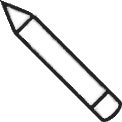
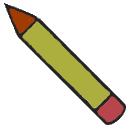
Made images for pointer, placed timer for game length

Changed region(s): [[0.0, 0.0, 1.0, 1.0]]

diff --git a/bord_gen.js b/bord_gen.js
@@ -711,14 +711,22 @@ let useTemp = false;
 tempEl.addEventListener("click", tempFunction);
 
 let brdEl = document.getElementById("sudoku-table");
-brdEl.className = "pen-table"
+
+let pointerImage = {
+    pen: "./pen_img.png",
+    pencil: "./pencil_img.png",
+    temp: "./temp_img.png"
+}
+
+document.getElementById("pointer-image").src = pointerImage.pen;
+
 
 function penFunction() {
     usePen = true;
     usePencil = false;
     useTemp = false;
     highlightToolInUse()
-    brdEl.className = "pen-table"
+    document.getElementById("pointer-image").src = pointerImage.pen;
 }
 
 function pencilFunction() {
@@ -726,9 +734,7 @@ function pencilFunction() {
     usePencil = true;
     useTemp = false;
     highlightToolInUse();
-    brdEl.className = "pencil-table"
-    // const pencilURL = "../images/pencil_img.ico";
-    // brdEl.style.cursor = "url(" + pencilURL + ")";
+    document.getElementById("pointer-image").src = pointerImage.pencil;
 }
 
 function tempFunction() {
@@ -736,7 +742,6 @@ function tempFunction() {
     usePencil = false;
     useTemp = true;
     highlightToolInUse()
-    brdEl.className = "temp-table"
 }
 
 function highlightToolInUse() {
@@ -760,4 +765,10 @@ function clearPuzz() {
     populateBoard(originalBoard)
 }
 
-console.log(MouseEvent)
+let toolInUse = document.getElementById("tool-pointer");
+
+onmousemove = function(e){
+    toolInUse.style.left = e.clientX - 9 + "px"
+    toolInUse.style.top = e.clientY + 18 + "px"
+};
+

diff --git a/src_css/base/base.css b/src_css/base/base.css
@@ -56,6 +56,8 @@ button {
     background: rgba(0, 0, 0, 0.5);
     border-radius: 5px;
     pointer-events: none;
+    cursor: none;
+    z-index: 2;
 }
 .input-selection input{
     margin: 0.2rem;
@@ -63,6 +65,10 @@ button {
     background: darkkhaki;
     border-radius: 5px;
     border: 2px solid darkslategray;
+    cursor: none;
+}
+.input-selection button {
+    cursor: none;
 }
 .pencil_p_element {
     font-size: 0.7rem;
@@ -75,12 +81,21 @@ button {
     margin: 0;
     padding: 0;
 }
-.pen-table {
-    cursor: pointer;
+#tool-pointer {
+    width: 32px;
+    height: 32px;
+    position: absolute;
+    pointer-events: none;
+    z-index: 3;
 }
-.pencil-table {
-    cursor: crosshair;
+#pointer-image {
+    width: 20px;
+    height: 20px;
+    pointer-events: none;
 }
-.temp-table {
-    cursor: help;
+* {
+    cursor: none;
+}
+#game-time {
+    color: darkkhaki;
 }

diff --git a/index.html b/index.html
@@ -11,6 +11,10 @@
 <body>
     <main>
         <h1>Sudoku</h1>
+        <div id="game-time">
+            Timer
+        </div>
+        <br>
         <table id="sudoku-table">
             <tr class="row-1">
                 <td class="brd-el" id="grid-1-cell-1"></td>
@@ -197,5 +201,8 @@
             <button id="clear-el">Clear</button>
         </div>
     </main>
+    <div id="tool-pointer">
+        <img src="" alt="pointer" id="pointer-image">
+    </div>
 </body>
 </html>
